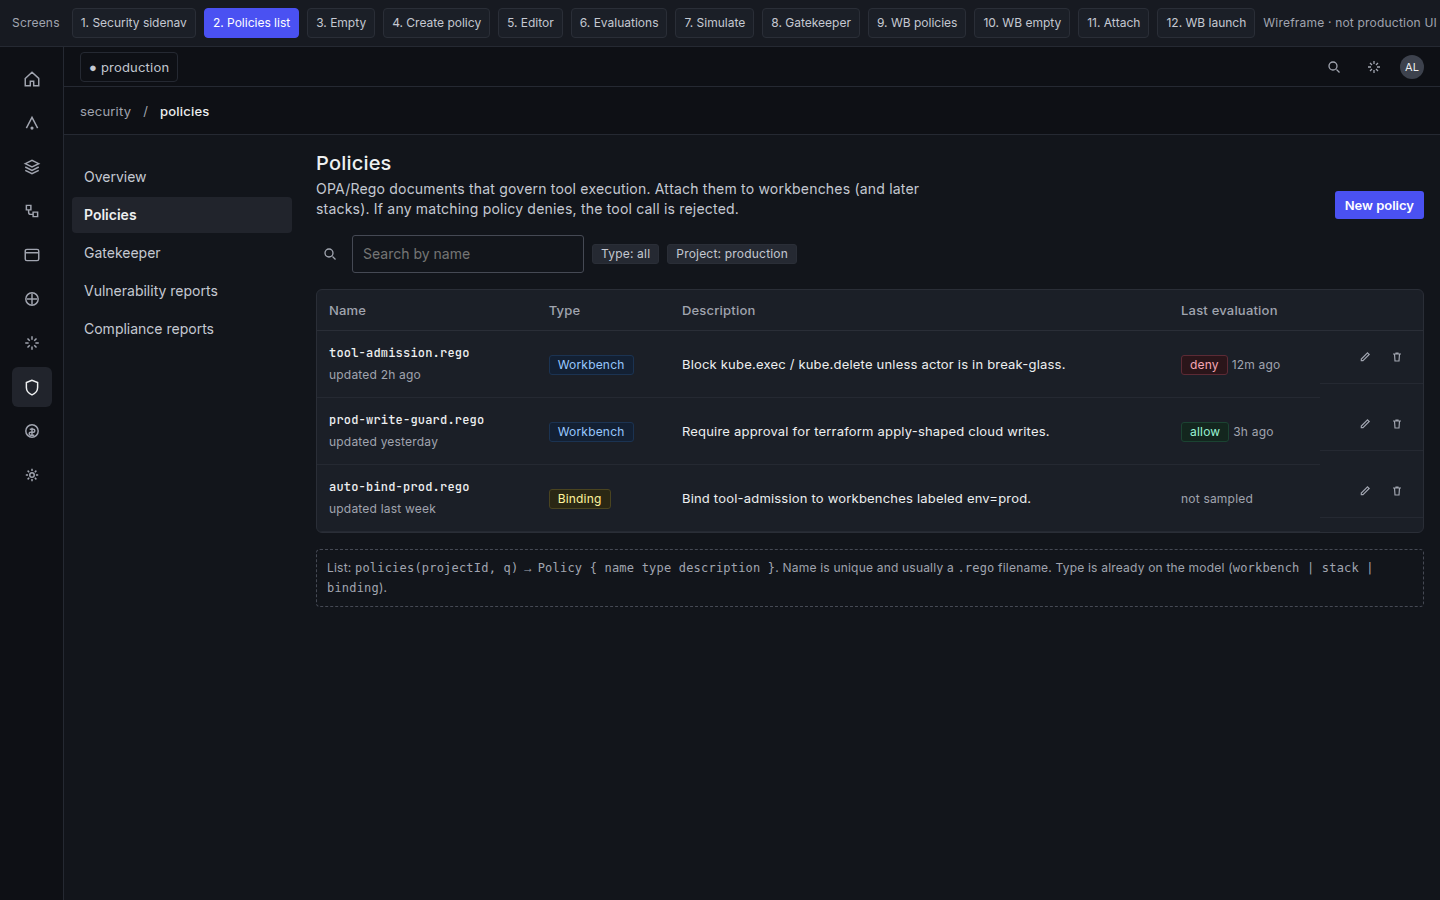
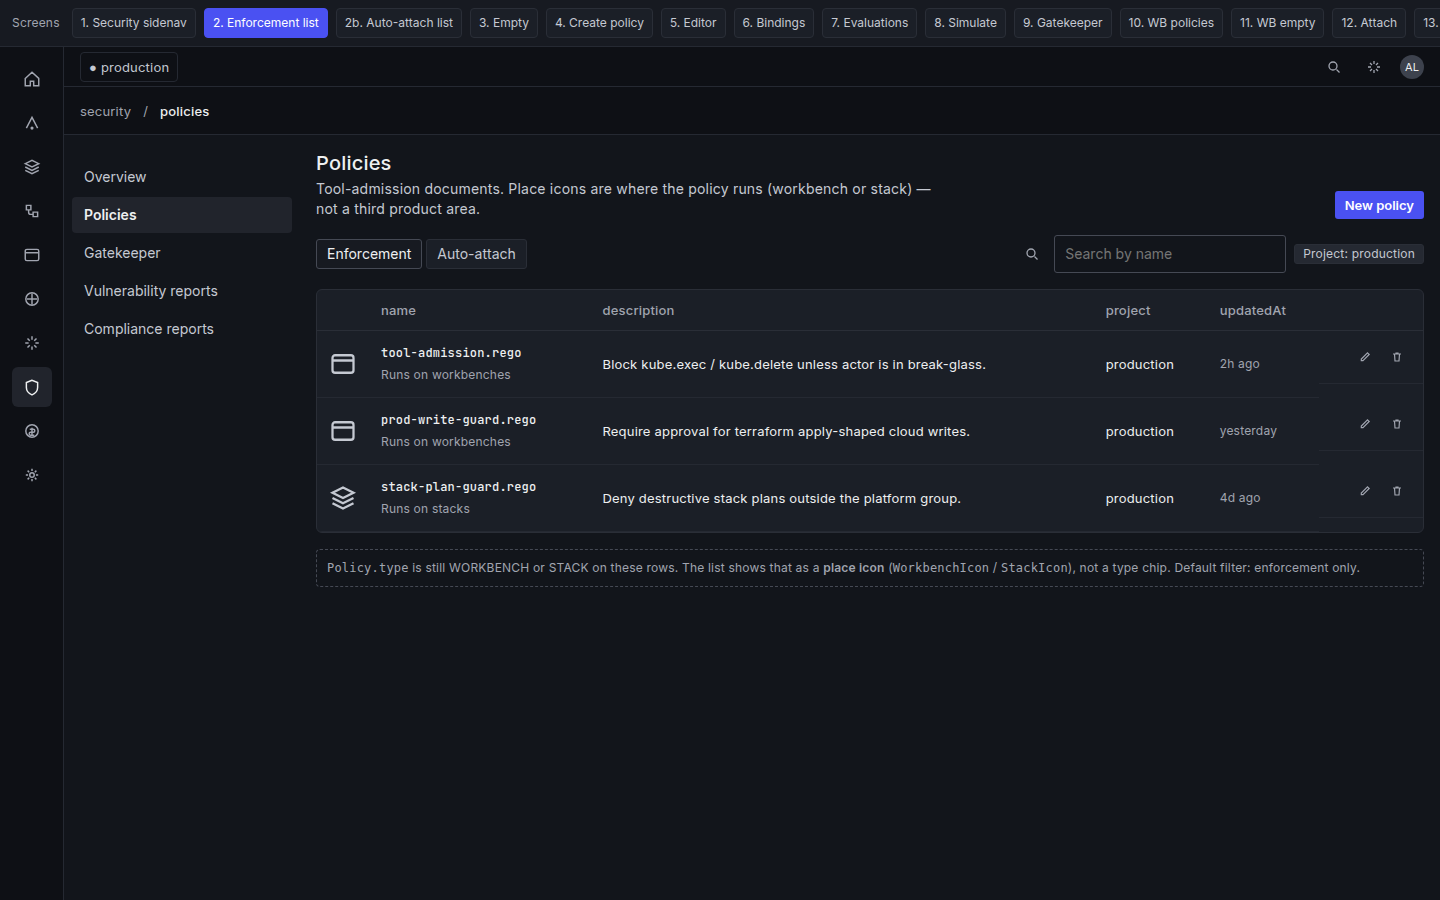
Show enforcement vs auto-attach as separate policy list tabs
Keep WORKBENCH/STACK as place icons on the default Enforcement tab
and BINDING on Auto-attach, instead of a flat type chip.

diff --git a/docs/wireframes/workbench-policy-enforcement/index.html b/docs/wireframes/workbench-policy-enforcement/index.html
@@ -218,13 +218,26 @@
     .row-actions { display: flex; justify-content: flex-end; gap: 4px; }
     .center-col { max-width: 750px; margin: 0 auto; width: 100%; display: flex; flex-direction: column; gap: 16px; }
     .search { display: flex; align-items: center; gap: 8px; }
+    .type-groups { display: flex; flex-direction: column; gap: 16px; }
+    .type-group-label { font-size: 12px; color: var(--text-xlight); font-weight: 600; }
+    .type-opt {
+      display: block; width: 100%; text-align: left;
+      background: var(--fill-zero); border: 1px solid var(--border-input);
+      border-radius: 4px; padding: 10px 12px; margin-top: 6px;
+    }
+    .type-opt:hover { background: var(--fill-zero-hover); }
+    .type-opt.active { border-color: var(--border-primary); background: var(--fill-zero-selected); }
+    .type-opt .opt-title { display: flex; align-items: center; gap: 8px; font-weight: 600; }
+    .type-opt .opt-title svg { width: 16px; height: 16px; color: var(--icon-light); }
+    .type-opt .opt-sub { color: var(--text-xlight); font-size: 12px; font-weight: 400; margin: 4px 0 0 24px; }
   </style>
 </head>
 <body>
   <div class="picker">
     <span class="picker-label">Screens</span>
     <button data-go="security-overview">1. Security sidenav</button>
-    <button data-go="policies">2. Policies list</button>
+    <button data-go="policies" data-kind="enforcement">2. Enforcement list</button>
+    <button data-go="policies" data-kind="autoattach">2b. Auto-attach list</button>
     <button data-go="policies-empty">3. Empty</button>
     <button data-go="policy-create">4. Create policy</button>
     <button data-go="policy-body">5. Editor</button>
@@ -248,6 +261,7 @@
       stacks: '<svg viewBox="0 0 16 16" fill="none"><path d="M2 11 8 14l6-3M2 8l6 3 6-3M2 5l6 3 6-3L8 2 2 5Z" stroke="currentColor" stroke-width="1.3"/></svg>',
       flows: '<svg viewBox="0 0 16 16" fill="none"><path d="M3 3h4v4H3V3Zm6 6h4v4H9V9ZM5 7v2a2 2 0 0 0 2 2h2" stroke="currentColor" stroke-width="1.3"/></svg>',
       wb: '<svg viewBox="0 0 16 16" fill="none"><rect x="2" y="3" width="12" height="10" rx="1.5" stroke="currentColor" stroke-width="1.3"/><path d="M2 6h12" stroke="currentColor" stroke-width="1.3"/></svg>',
+      links: '<svg viewBox="0 0 16 16" fill="none"><path d="M6.5 9.5 9.5 6.5M7 11.5 5.5 13A2.1 2.1 0 1 1 2.5 10L4 8.5M12 7.5 13.5 6A2.1 2.1 0 1 0 10.5 3L9 4.5" stroke="currentColor" stroke-width="1.3" stroke-linecap="round"/></svg>',
       k8s: '<svg viewBox="0 0 16 16" fill="none"><circle cx="8" cy="8" r="5.5" stroke="currentColor" stroke-width="1.3"/><path d="M8 3v10M3.5 8h9" stroke="currentColor" stroke-width="1.3"/></svg>',
       ai: '<svg viewBox="0 0 16 16" fill="none"><path d="M8 2v3M8 11v3M2 8h3M11 8h3M4 4l2 2M10 10l2 2M12 4l-2 2M6 10l-2 2" stroke="currentColor" stroke-width="1.3"/></svg>',
       shield: '<svg viewBox="0 0 16 16" fill="none"><path d="M8 2 3 4v4.5c0 3.2 2.1 5.3 5 6.5 2.9-1.2 5-3.3 5-6.5V4L8 2Z" stroke="currentColor" stroke-width="1.3"/></svg>',
@@ -305,13 +319,16 @@
   "approve": []
 }`
 
-    let state = { screen: 'policies', menu: false, simulated: false, createStep: 'Details' }
+    let state = { screen: 'policies', menu: false, simulated: false, createStep: 'Details', policyKind: 'enforcement', formType: 'WORKBENCH' }
 
     function go(screen) {
       state.screen = screen
       state.menu = false
       if (screen !== 'policy-simulate') state.simulated = false
       if (screen !== 'policy-create') state.createStep = 'Details'
+      if (screen === 'policy-create') {
+        state.formType = state.policyKind === 'autoattach' ? 'BINDING' : (state.formType === 'BINDING' ? 'WORKBENCH' : (state.formType || 'WORKBENCH'))
+      }
       location.hash = screen
       render()
     }
@@ -398,48 +415,84 @@
           <div class="page-head">
             <div>
               <h1 class="title">Policies</h1>
-              <p class="subtitle">OPA/Rego documents that govern tool execution. Attach them to workbenches (and later stacks). If any matching policy denies, the tool call is rejected.</p>
+              <p class="subtitle">${state.policyKind === 'enforcement'
+                ? 'Tool-admission documents. Place icons are where the policy runs (workbench or stack) — not a third product area.'
+                : 'Auto-attach documents. These only decide whether another policy should be bound to a workbench or stack. They never admit or deny a tool call.'}</p>
             </div>
             <button class="btn small" onclick="go('policy-create')">New policy</button>
           </div>
-          <div class="search">
-            <span class="icon-btn">${I.search}</span>
-            <input class="input" style="max-width:280px" placeholder="Search by name" />
-            <span class="chip">Type: all</span>
-            <span class="chip">Project: production</span>
+          <div style="display:flex;align-items:center;justify-content:space-between;gap:16px;flex-wrap:wrap">
+            <div class="subtabs">
+              <button class="${state.policyKind === 'enforcement' ? 'active' : ''}" onclick="state.policyKind='enforcement';render()">Enforcement</button>
+              <button class="${state.policyKind === 'autoattach' ? 'active' : ''}" onclick="state.policyKind='autoattach';render()">Auto-attach</button>
+            </div>
+            <div class="search">
+              <span class="icon-btn">${I.search}</span>
+              <input class="input" style="max-width:240px" placeholder="Search by name" />
+              <span class="chip">Project: production</span>
+            </div>
           </div>
+          ${state.policyKind === 'enforcement' ? `
           <div class="card" style="overflow:hidden">
             <table class="table">
-              <thead><tr><th>name</th><th>type</th><th>description</th><th>project</th><th>updatedAt</th><th></th></tr></thead>
+              <thead><tr><th></th><th>name</th><th>description</th><th>project</th><th>updatedAt</th><th></th></tr></thead>
               <tbody>
                 <tr class="click" onclick="go('policy-body')">
-                  <td><div class="row-title mono">tool-admission.rego</div></td>
-                  <td><span class="chip info">WORKBENCH</span></td>
+                  <td style="width:40px"><span class="icon-btn" title="Workbench" style="color:var(--text-light)">${I.wb}</span></td>
+                  <td>
+                    <div class="row-title mono">tool-admission.rego</div>
+                    <div class="row-sub">Runs on workbenches</div>
+                  </td>
                   <td>Block kube.exec / kube.delete unless actor is in break-glass.</td>
                   <td>production</td>
                   <td class="row-sub">2h ago</td>
                   <td class="row-actions"><button class="icon-btn" onclick="event.stopPropagation();go('policy-body')">${I.pencil}</button><button class="icon-btn danger">${I.trash}</button></td>
                 </tr>
                 <tr class="click" onclick="go('policy-body')">
-                  <td><div class="row-title mono">prod-write-guard.rego</div></td>
-                  <td><span class="chip info">WORKBENCH</span></td>
+                  <td><span class="icon-btn" title="Workbench" style="color:var(--text-light)">${I.wb}</span></td>
+                  <td>
+                    <div class="row-title mono">prod-write-guard.rego</div>
+                    <div class="row-sub">Runs on workbenches</div>
+                  </td>
                   <td>Require approval for terraform apply-shaped cloud writes.</td>
                   <td>production</td>
                   <td class="row-sub">yesterday</td>
                   <td class="row-actions"><button class="icon-btn">${I.pencil}</button><button class="icon-btn danger">${I.trash}</button></td>
                 </tr>
                 <tr class="click" onclick="go('policy-body')">
-                  <td><div class="row-title mono">auto-bind-prod.rego</div></td>
-                  <td><span class="chip warn">BINDING</span></td>
-                  <td>Bind tool-admission to workbenches labeled env=prod.</td>
+                  <td><span class="icon-btn" title="Stack" style="color:var(--text-light)">${I.stacks}</span></td>
+                  <td>
+                    <div class="row-title mono">stack-plan-guard.rego</div>
+                    <div class="row-sub">Runs on stacks</div>
+                  </td>
+                  <td>Deny destructive stack plans outside the platform group.</td>
                   <td>production</td>
-                  <td class="row-sub">last week</td>
+                  <td class="row-sub">4d ago</td>
                   <td class="row-actions"><button class="icon-btn">${I.pencil}</button><button class="icon-btn danger">${I.trash}</button></td>
                 </tr>
               </tbody>
             </table>
           </div>
-          <div class="callout"><code>Policy</code> list fields: <code>name type description project updatedAt</code>. Evaluations are <code>policy.policyEvaluations</code>, not a column on Policy. Workbench attach is <code>WorkbenchPolicy</code> on the workbench, not a Policy connection.</div>`
+          <div class="callout"><code>Policy.type</code> is still WORKBENCH or STACK on these rows. The list shows that as a <b>place icon</b> (<code>WorkbenchIcon</code> / <code>StackIcon</code>), not a type chip. Default filter: enforcement only.</div>` : `
+          <div class="card" style="overflow:hidden">
+            <table class="table">
+              <thead><tr><th></th><th>name</th><th>description</th><th>project</th><th>updatedAt</th><th></th></tr></thead>
+              <tbody>
+                <tr class="click" onclick="go('policy-bindings')">
+                  <td style="width:40px"><span class="icon-btn" title="Auto-attach" style="color:var(--text-light)">${I.links}</span></td>
+                  <td>
+                    <div class="row-title mono">auto-bind-prod.rego</div>
+                    <div class="row-sub">Auto-attach · not a place</div>
+                  </td>
+                  <td>If a workbench is labeled env=prod, attach tool-admission.rego.</td>
+                  <td>production</td>
+                  <td class="row-sub">last week</td>
+                  <td class="row-actions"><button class="icon-btn" onclick="event.stopPropagation();go('policy-body')">${I.pencil}</button><button class="icon-btn danger">${I.trash}</button></td>
+                </tr>
+              </tbody>
+            </table>
+          </div>
+          <div class="callout">These are <code>Policy.type = BINDING</code>. Used as <code>BindingPolicy.bindPolicy</code>, never in the workbench attach picker. Icon: <code>LinksIcon</code> (or <code>ArrowRightLeftIcon</code>) — not a sibling of workbench/stack.</div>`}`
       }),
 
       'policies-empty': () => securityPage('policies', {
@@ -448,12 +501,23 @@
           <div class="page-head">
             <div>
               <h1 class="title">Policies</h1>
-              <p class="subtitle">OPA/Rego documents that govern tool execution.</p>
+              <p class="subtitle">${state.policyKind === 'enforcement'
+                ? 'No tool-admission documents in this project yet.'
+                : 'No auto-attach documents in this project yet.'}</p>
             </div>
           </div>
+          <div class="subtabs">
+            <button class="${state.policyKind === 'enforcement' ? 'active' : ''}" onclick="state.policyKind='enforcement';render()">Enforcement</button>
+            <button class="${state.policyKind === 'autoattach' ? 'active' : ''}" onclick="state.policyKind='autoattach';render()">Auto-attach</button>
+          </div>
           <div class="card empty">
-            <h3>No policies yet</h3>
-            <p>Create a Rego policy, then attach it to a workbench to control which tools can run and for whom.</p>
+            ${state.policyKind === 'enforcement' ? `
+              <h3>No enforcement policies</h3>
+              <p>Create a workbench or stack policy. Place icons show where it runs. Auto-attach stays on the other tab.</p>
+            ` : `
+              <h3>No auto-attach policies</h3>
+              <p>These are <code>BINDING</code> documents. They only decide which workbenches get other policies — they never admit or deny a tool call.</p>
+            `}
             <button class="btn" onclick="go('policy-create')">New policy</button>
           </div>`
       }),
@@ -474,8 +538,26 @@
                 <span class="hint">Unique. Treat like a filename; <code>.rego</code> suffix is conventional.</span>
               </div>
               <div class="field"><span class="label">Type *</span>
-                <select class="select"><option>Workbench</option><option>Stack</option><option>Binding</option></select>
-                <span class="hint">Workbench policies evaluate tool calls. Binding policies decide auto-attach. Stack is reserved.</span>
+                <div class="type-groups">
+                  <div>
+                    <div class="type-group-label">Enforcement — where the policy runs</div>
+                    <button type="button" class="type-opt ${state.formType === 'WORKBENCH' ? 'active' : ''}" onclick="state.formType='WORKBENCH';render()">
+                      <div class="opt-title">${I.wb} Workbench</div>
+                      <div class="opt-sub">Admit or deny tool calls on workbenches. Only this type appears in the workbench attach picker.</div>
+                    </button>
+                    <button type="button" class="type-opt ${state.formType === 'STACK' ? 'active' : ''}" onclick="state.formType='STACK';render()">
+                      <div class="opt-title">${I.stacks} Stack</div>
+                      <div class="opt-sub">Admit or deny tool calls on stacks. Same idea, later attach surface.</div>
+                    </button>
+                  </div>
+                  <div>
+                    <div class="type-group-label">Auto-attach — not a place</div>
+                    <button type="button" class="type-opt ${state.formType === 'BINDING' ? 'active' : ''}" onclick="state.formType='BINDING';render()">
+                      <div class="opt-title">${I.links} Binding</div>
+                      <div class="opt-sub">Used as <code>BindingPolicy.bindPolicy</code> (<code>bind: true/false</code>). Hidden from the workbench attach picker. Not Console RBAC policy bindings.</div>
+                    </button>
+                  </div>
+                </div>
               </div>
               <div class="field"><span class="label">Description</span>
                 <textarea class="textarea">Block kube.exec and kube.delete unless the actor is in the break-glass group.</textarea>
@@ -531,7 +613,12 @@ default sample := 0.5</textarea>
                 <input class="input mono" value="tool-admission.rego" />
               </div>
               <div class="field"><span class="label">type *</span>
-                <select class="select"><option>WORKBENCH</option><option>STACK</option><option>BINDING</option></select>
+                <select class="select">
+                  <option>WORKBENCH — run on workbenches</option>
+                  <option>STACK — run on stacks</option>
+                  <option>BINDING — auto-attach (not a place)</option>
+                </select>
+                <span class="hint">WORKBENCH / STACK = place. BINDING = auto-attach logic. Changing type can orphan attachments.</span>
               </div>
               <div class="field"><span class="label">description</span>
                 <textarea class="textarea">Block kube.exec / kube.delete unless actor is in break-glass.</textarea>
@@ -781,9 +868,10 @@ default sample := 0.5</textarea>
                   <a href="#" onclick="event.preventDefault();go('policy-create')">Create policy in security</a>
                 </div>
                 <select class="select">
-                  <option>tool-admission.rego — Workbench</option>
-                  <option>prod-write-guard.rego — Workbench</option>
+                  <option>tool-admission.rego</option>
+                  <option>prod-write-guard.rego</option>
                 </select>
+                <span class="hint">Scoped to <code>type: WORKBENCH</code>. Stack and auto-attach policies do not appear here.</span>
               </div>
               <div class="field">
                 <span class="label">matches.regexes</span>
@@ -905,15 +993,21 @@ default sample := 0.5</textarea>
     function render() {
       document.getElementById('app').innerHTML = (screens[state.screen] || screens.policies)()
       document.querySelectorAll('.picker button').forEach((b) => {
-        b.classList.toggle('active', b.dataset.go === state.screen)
+        const screenMatch = b.dataset.go === state.screen
+        const kindMatch = !b.dataset.kind || b.dataset.kind === state.policyKind
+        b.classList.toggle('active', screenMatch && kindMatch)
       })
     }
 
     document.querySelector('.picker').addEventListener('click', (e) => {
       const btn = e.target.closest('button[data-go]')
-      if (btn) go(btn.dataset.go)
+      if (!btn) return
+      if (btn.dataset.kind) state.policyKind = btn.dataset.kind
+      go(btn.dataset.go)
     })
     window.go = go
+    const params = new URLSearchParams(location.search)
+    if (params.get('kind') === 'autoattach' || params.get('kind') === 'enforcement') state.policyKind = params.get('kind')
     if (location.hash.slice(1) && screens[location.hash.slice(1)]) state.screen = location.hash.slice(1)
     render()
   </script>

diff --git a/docs/wireframes/workbench-policy-enforcement/README.md b/docs/wireframes/workbench-policy-enforcement/README.md
@@ -120,6 +120,20 @@ Policy detail tabs are **Body** (`name`, `type`, `description`, `project`, `poli
 
 Evaluations table columns are `insertedAt`, `policyIds`, `input`, `output`. Tool/actor/result are only inside those maps.
 
+## `Policy.type` is place vs auto-attach
+
+Do **not** flatten `WORKBENCH` / `STACK` / `BINDING` into one type chip as if they were three product areas.
+
+| GraphQL value | What it is | List tab | Icon |
+| --- | --- | --- | --- |
+| `WORKBENCH` | Place the policy **runs** (tool admission on workbenches) | **Enforcement** (default) | `WorkbenchIcon` + “Runs on workbenches” |
+| `STACK` | Place the policy **runs** (tool admission on stacks) | **Enforcement** | `StackIcon` + “Runs on stacks” |
+| `BINDING` | **Auto-attach logic** (`BindingPolicy.bindPolicy`, `bind: true/false`). Not a third place. Not Console RBAC policy bindings. | **Auto-attach** | `LinksIcon` / `ArrowRightLeftIcon` + “Auto-attach · not a place” |
+
+- Default list = Enforcement. Second tab = Auto-attach.
+- Workbench attach picker = `type: WORKBENCH` only. Stack and BINDING policies are hidden.
+- Create form groups type the same way: Enforcement (Workbench / Stack) vs Auto-attach (Binding). Opening create from the Auto-attach tab defaults to `BINDING`.
+
 ## Interaction notes
 
 **Create vs attach.** Security owns the `Policy` document (`createPolicy` / `updatePolicy` / `deletePolicy`). A workbench never authors `policy` source; it creates a `WorkbenchPolicy` that points at an existing `Policy` and sets `matches.regexes`. Empty regexes mean all tools.
@@ -130,7 +144,7 @@ Evaluations table columns are `insertedAt`, `policyIds`, `input`, `output`. Tool
 
 **Edit attach.** `updateWorkbenchPolicy` only accepts `matches`. Changing which Policy is bound means delete + create.
 
-**Types.** `Policy.type` is required (`WORKBENCH` default). Filter the list by it. Stack attach is a later surface.
+**Types.** `Policy.type` is required (`WORKBENCH` default). Filter the list with Enforcement / Auto-attach tabs, not a flat type chip. Stack attach is a later surface.
 
 **Bindings.** `Policy.bindingPolicies` is the Policy-level child for auto-attach. Manual workbench attach stays on the workbench.
 
@@ -139,8 +153,9 @@ Evaluations table columns are `insertedAt`, `policyIds`, `input`, `output`. Tool
 | # | Screen | Route |
 | --- | --- | --- |
 | 1 | Security overview (new sidenav) | `/security/overview` |
-| 2 | Policies list | `/security/policies` |
-| 3 | Policies empty | `/security/policies` |
+| 2 | Policies list — Enforcement tab | `/security/policies` |
+| 2b | Policies list — Auto-attach tab | `/security/policies` (`type: BINDING`) |
+| 3 | Policies empty (same tabs) | `/security/policies` |
 | 4 | Create policy (details + policy body text) | `/security/policies/create` |
 | 5 | Policy body (all Policy fields) | `/security/policies/:id` |
 | 6 | Policy bindings | `/security/policies/:id/bindings` |
